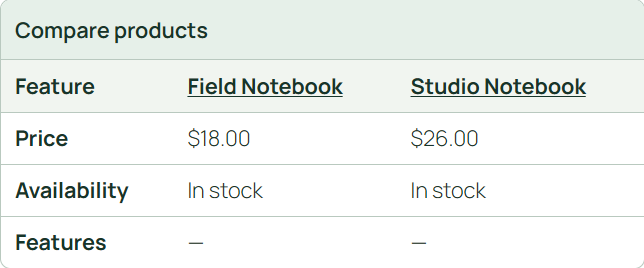
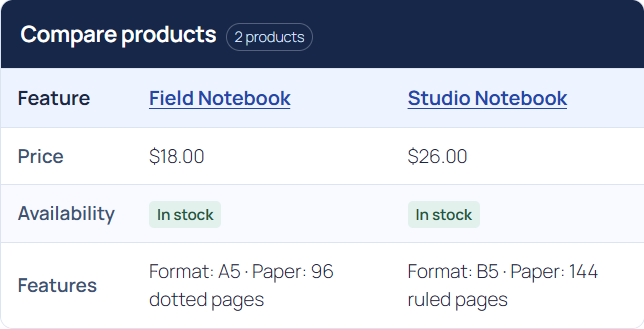
Publish woo-product-comparison-block portfolio work

diff --git a/style.css b/style.css
@@ -1,11 +1,21 @@
 .wp-block-codexawp-product-comparison {
-	--compare-border: #b9c9bf;
-	--compare-accent: #e6f0e9;
-	color: #17352a;
+	--compare-ink: #172746;
+	--compare-line: #dce4f2;
+	--compare-accent: #edf3ff;
+	color: var(--compare-ink);
 }
-.codexawp-comparison-scroll { overflow-x: auto; border: 1px solid var(--compare-border); border-radius: .65rem; }
-.codexawp-comparison-scroll:focus-visible { outline: 3px solid #426a56; outline-offset: 2px; }
-.codexawp-comparison-scroll table { border-collapse: collapse; width: 100%; min-inline-size: 22rem; margin: 0; }
-.codexawp-comparison-scroll caption { text-align: start; font-weight: 650; padding: .9rem; background: var(--compare-accent); }
-.codexawp-comparison-scroll th, .codexawp-comparison-scroll td { text-align: start; padding: .65rem .9rem; border-block-start: 1px solid var(--compare-border); }
-.codexawp-comparison-scroll thead { background: #f1f5f0; }
+.codexawp-comparison-scroll { overflow-x: auto; border: 1px solid var(--compare-line); border-radius: 13px; background: #fff; }
+.codexawp-comparison-scroll:focus-visible { outline: 3px solid #3959ba; outline-offset: 3px; }
+.codexawp-comparison-scroll table { border-collapse: collapse; inline-size: 100%; min-inline-size: 420px; margin: 0; background: #fff; font-size: .88em; line-height: 1.5; }
+.codexawp-comparison-scroll caption { text-align: start; padding: 17px 20px; background: #162749; color: #fff; }
+.codexawp-comparison-scroll .compare-title { font-weight: 680; font-size: 1.18em; letter-spacing: -.02em; }
+.codexawp-comparison-scroll .compare-count { display: inline-block; margin-inline-start: .65em; padding: 2px 8px; font-size: .76em; border: 1px solid #ffffff45; border-radius: 20px; color: #dce7ff; white-space: nowrap; }
+.codexawp-comparison-scroll th, .codexawp-comparison-scroll td { text-align: start; padding: 14px 17px; border-block-start: 1px solid var(--compare-line); vertical-align: middle; }
+.codexawp-comparison-scroll thead { background: var(--compare-accent); }
+.codexawp-comparison-scroll thead th { font-size: 1.04em; font-weight: 670; }
+.codexawp-comparison-scroll a { color: #2346a7; text-decoration-thickness: 1px; text-underline-offset: 3px; }
+.codexawp-comparison-scroll tbody th { font-weight: 620; color: #405272; }
+.codexawp-comparison-scroll tbody tr:nth-child(even) { background: #f8faff; }
+.codexawp-comparison-scroll .compare-stock { background: #edf1f8; color: #394963; padding: 3px 8px; border-radius: 5px; font-size: .8em; white-space: nowrap; font-weight: 640; }
+.codexawp-comparison-scroll .compare-stock-available { background: #e2f1eb; color: #235743; }
+.codexawp-comparison-scroll img.compare-thumbnail { display: block; width: 64px; height: 64px; margin-block-end: 8px; object-fit: cover; border-radius: 8px; }

diff --git a/woo-product-comparison-block.php b/woo-product-comparison-block.php
@@ -16,7 +16,7 @@ add_action( 'init', static function (): void {
 	wp_register_script( 'codexawp-comparison-edit', plugins_url( 'editor.js', __FILE__ ), [
 		'wp-blocks', 'wp-block-editor', 'wp-components', 'wp-element', 'wp-server-side-render',
 	], '1.0.0', true );
-	wp_register_style( 'codexawp-comparison', plugins_url( 'style.css', __FILE__ ), [], '1.0.0' );
+	wp_register_style( 'codexawp-comparison', plugins_url( 'style.css', __FILE__ ), [], '1.1.0' );
 	register_block_type( __DIR__, [ 'render_callback' => __NAMESPACE__ . '\render' ] );
 } );
 
@@ -37,7 +37,9 @@ function render( array $attributes ): string {
 	}
 	$rows = [
 		'Price' => static fn( $product ): string => wp_kses_post( $product->get_price_html() ) ?: '—',
-		'Availability' => static fn( $product ): string => esc_html( $product->is_in_stock() ? 'In stock' : 'Out of stock' ),
+		'Availability' => static fn( $product ): string => $product->is_in_stock()
+			? '<span class="compare-stock compare-stock-available">In stock</span>'
+			: '<span class="compare-stock">Out of stock</span>',
 		'Features' => static function ( $product ): string {
 			$parts = [];
 			foreach ( $product->get_attributes() as $attribute ) {
@@ -56,11 +58,16 @@ function render( array $attributes ): string {
 	?>
 	<section <?php echo get_block_wrapper_attributes(); ?> >
 		<div class="codexawp-comparison-scroll" role="region" aria-label="Product comparison" tabindex="0">
-			<table>
-				<caption>Compare products</caption>
+			<table aria-label="Compare products">
+				<caption><span class="compare-title">Compare products</span><span class="compare-count"><?php echo esc_html( sprintf( '%d products', count( $products ) ) ); ?></span></caption>
 				<thead><tr><th scope="col">Feature</th>
 				<?php foreach ( $products as $product ) : ?>
-					<th scope="col"><a href="<?php echo esc_url( $product->get_permalink() ); ?>"><?php echo esc_html( $product->get_name() ); ?></a></th>
+					<th scope="col">
+						<?php if ( $product->get_image_id() ) : ?>
+							<?php echo wp_kses_post( $product->get_image( 'woocommerce_thumbnail', [ 'class' => 'compare-thumbnail', 'alt' => '' ] ) ); ?>
+						<?php endif; ?>
+						<a href="<?php echo esc_url( $product->get_permalink() ); ?>"><?php echo esc_html( $product->get_name() ); ?></a>
+					</th>
 				<?php endforeach; ?></tr></thead>
 				<tbody><?php foreach ( $rows as $label => $output ) : ?>
 					<tr><th scope="row"><?php echo esc_html( $label ); ?></th>
